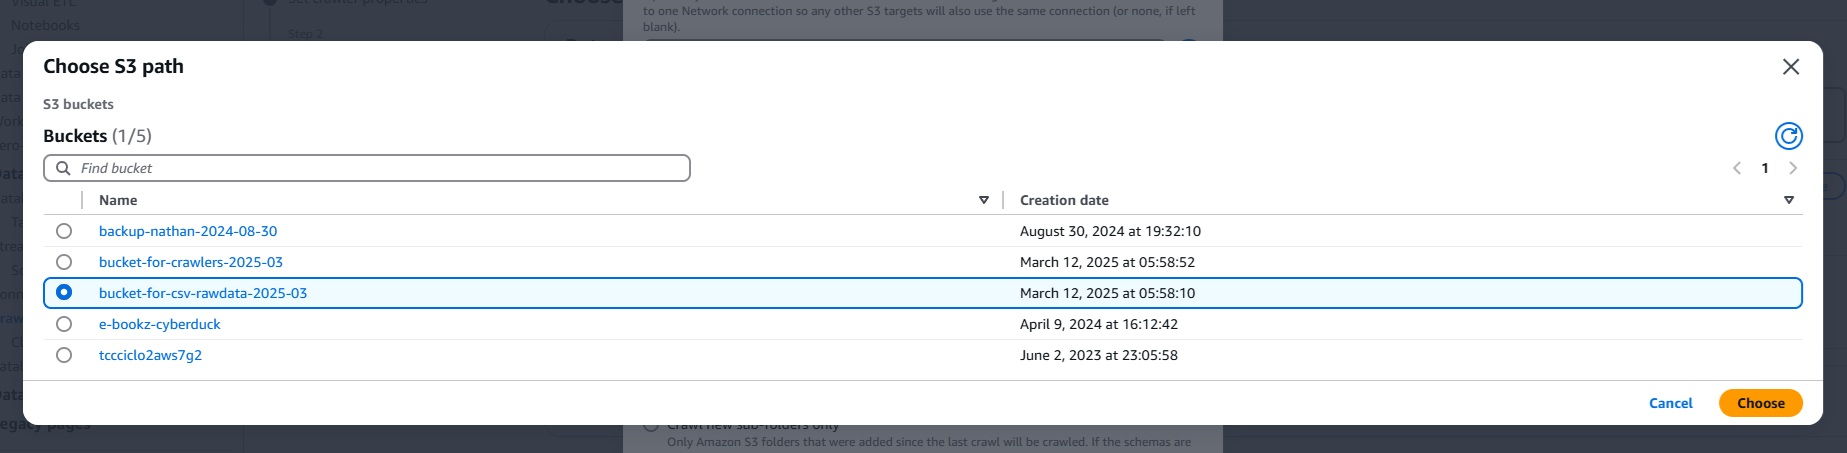
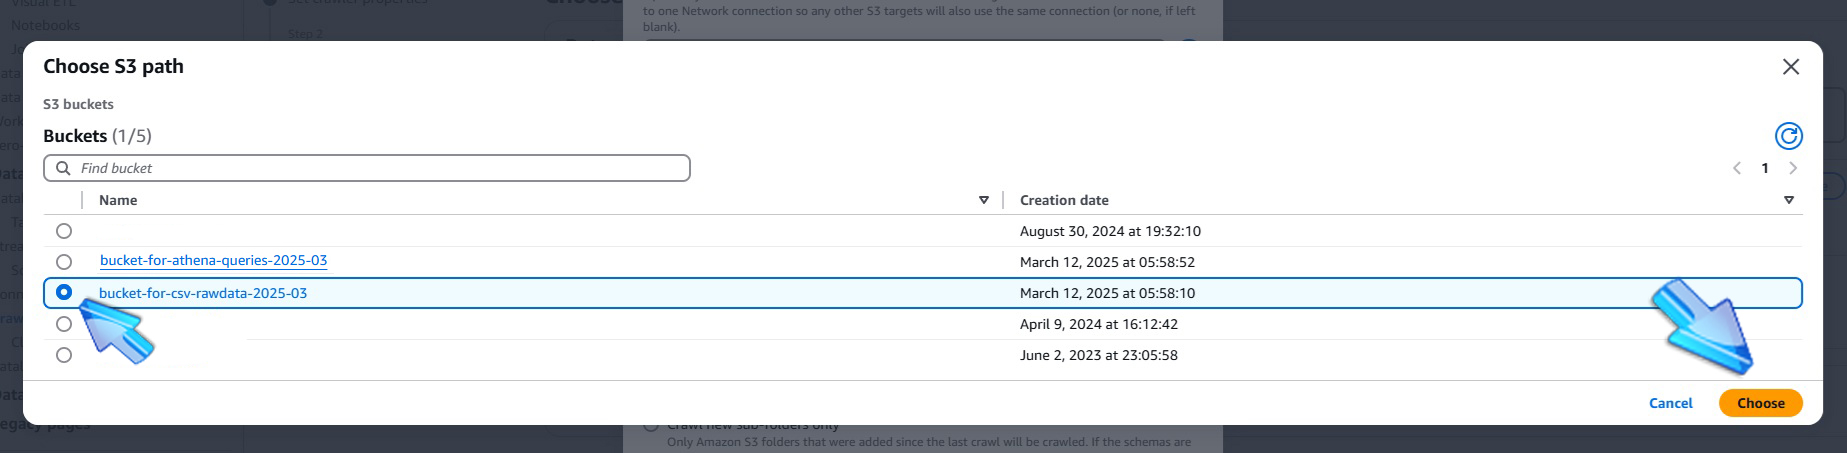
Update AWS Glue documentation image for crawler data source

diff --git a/thisisthelab.md b/thisisthelab.md
@@ -135,11 +135,13 @@
 
 ###### ![Brazil](https://github.com/Acheroniano/flag-icon/blob/master/png/16/country-4x3/br.png "Brazil") 
 ###### Faça a parametrização do *Data Source* com o bucket *bucket-for-csv-rawdata-2025-03*
-###### Clique no botão *ADD an S3 Data Source*. 
+###### Clique no botão *ADD an S3 data source*. 
 
 ###### ![United States](https://github.com/Acheroniano/flag-icon/blob/master/png/16/country-4x3/us.png "United States") 
 ###### Parameterize the *Data Source* with the bucket *bucket-for-csv-rawdata-2025-03*
-###### Click on the *ADD an S3 Data Source* button. 
+###### Click on the *ADD an S3 data source* button. 
 
 ![AWS Glue Crawler Parametrization](./images/14a-AWSGlueCrawlerAddDataSource.jpg)
+![AWS S3 Bucket as a Data Source](./images/15a-AWSGlueCrawlerDataSource.jpg)
+
 
